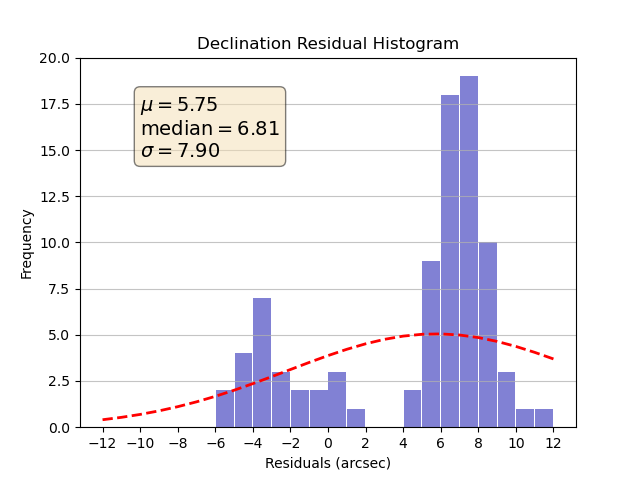
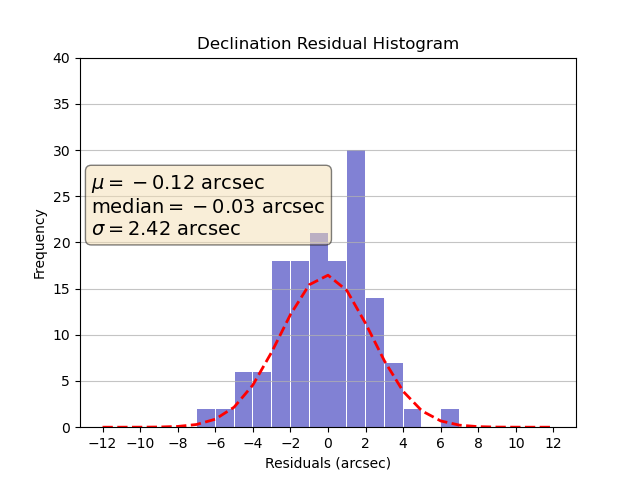
Histogram project

diff --git a/Old Files - Archived/AutoImageChecker.py b/Old Files - Archived/AutoImageChecker.py
@@ -1,0 +1,149 @@
+import os
+from astropy.io import fits, ascii
+from dateutil import parser
+from datetime import timedelta
+from matplotlib import pyplot as plt
+
+def read_fits_file(filepath):
+    with fits.open(filepath, memmap=False) as hdul:
+        hdr = hdul[0].header
+    return hdr
+
+def time_since_Epoch(timeList):
+    convertedList=[]
+    for i in timeList:  # Convert timestamps of residuals to Time since Epoch
+        dt = parser.parse(i)
+        timestamp = int(dt.timestamp())
+        timestamp = str(float(timestamp))
+        convertedList.append(timestamp)
+    return convertedList
+
+def create_Plot(x,y,xlabel,ylabel):
+    a = plt.scatter(x, y, label='Residuals')
+    plt.xlabel(xlabel)
+    plt.ylabel(ylabel)
+    plt.title(f'{xlabel} Vs {ylabel}')
+    plt.legend()
+    plt.savefig(f'{xlabel} Vs {ylabel}.png')
+    plt.show()
+    return None
+
+
+imageDirectory = "/Users/home/Downloads/processedLEOcal" #Image Directory
+g = open("/Users/home/Downloads/data-product-saral-fixed.txt", "r") # Saral Residuals
+f = open("/Users/home/Downloads/data-product-H2C-fixed.txt","r") #H2C Residuals
+p = open("/Users/home/Downloads/data-product-S6A-fixed.txt","r") #S6A Residuals
+
+objects,exptime,ela_min,sun_min,crval1,crval2,crota2,julian,date=[],[],[],[],[],[],[],[],[] #Header Data taken from images
+imageDatesCode,residualEpoch=[],[] #Timestamps converted to Unix seconds since Epoch
+
+#Matched data between Image headers and Residuals
+newobjects,newexptime,newela_min,newsun_min,newcrval1,newcrval2,newcrota2,newjulian,newdate,matchedRA,matchedDec=[],[],[],[],[],[],[],[],[],[],[]
+
+#Data taken from residual document
+result = []
+result2 = []
+result3 = []
+residualsRA = []
+residualsDec = []
+datesres=[]
+
+for dirpath, dirnames, filenames in os.walk(imageDirectory):
+    for filename in filenames:
+        if filename.endswith('.fits'):
+            filepath = os.path.join(dirpath, filename)
+            hdr = read_fits_file(filepath)
+            objects.append(hdr['OBJECT'])
+            exptime.append(hdr['AEXPTIME'])
+            ela_min.append(hdr['ELA_MIN'])
+            sun_min.append(hdr['SUN_MIN'])
+            crval1.append(hdr['CRVAL1'])
+            crval2.append(hdr['CRVAL2'])
+            crota2.append(hdr['CROTA2'])
+            julian.append(hdr['JD-OBS'])
+            date.append(hdr['DATE-OBS'])
+            #print(f'{filepath} Read')
+
+for x in f:
+    result.append(x.split())
+for y in g:
+    result2.append(y.split())
+for z in p:
+    result3.append(y.split())
+
+for x in range(0, len(result) - 1):
+    if x >= 8:
+        try:
+            if result[x][7] == "Right":
+                residualsRA.append(result[x][9])
+                st = result[x][0] + " " + result[x][1] + " " + result[x][2] + " " + result[x][3]
+                datesres.append(st)
+            else:
+                residualsDec.append(result[x][8])
+        except:
+            break
+
+for x in range(0, len(result2) - 1):
+    if x >= 8:
+        try:
+            if result2[x][7] == "Right":
+                residualsRA.append(result2[x][9])
+                st=result2[x][0]+" "+result2[x][1]+" "+result2[x][2]+" "+result2[x][3]
+                datesres.append(st)
+            else:
+                residualsDec.append(result2[x][8])
+        except:
+            break
+
+for x in range(0, len(result3) - 1):
+    if x >= 8:
+        try:
+            if result3[x][7] == "Right":
+                residualsRA.append(result3[x][9])
+                st=result3[x][0]+" "+result3[x][1]+" "+result3[x][2]+" "+result3[x][3]
+                datesres.append(st)
+            else:
+                residualsDec.append(result3[x][8])
+        except:
+            break
+
+
+
+imageDatesCode=time_since_Epoch(date)
+residualEpoch=time_since_Epoch(datesres)
+
+for i in range(len(residualEpoch)):
+    for j in range(len(imageDatesCode)):
+        if float(residualEpoch[i])<=float(imageDatesCode[j])+5 and float(residualEpoch[i])>=float(imageDatesCode[j])-5: # Checks if the dates are within a 10 second window of each other
+            newobjects.append(objects[j])
+            newexptime.append(exptime[j])
+            newela_min.append(ela_min[j])
+            newsun_min.append(sun_min[j])
+            newcrval1.append(crval1[j])
+            newcrval2.append(crval2[j])
+            newcrota2.append(crota2[j])
+            newjulian.append(julian[j])
+            matchedRA.append(residualsRA[i])
+            matchedDec.append(residualsDec[i])
+        else:
+            continue
+
+RA=[float(i) for i in matchedRA]
+Dec=[float(i) for i in matchedDec]
+
+#RA Plots
+create_Plot(RA,newexptime,"Residual (RA)","Exposure time (s)")
+create_Plot(RA,newcrval1,"Residual (RA)","Ref. Pixel RA")
+create_Plot(RA,newcrval2,"Residual (RA)","Ref. Pixel Declination")
+create_Plot(RA,newcrota2,"Residual (RA)","Rotation Angle Between Axes")
+create_Plot(RA,newela_min,"Residual (RA)","Minimum Earth Limb Angle (deg)")
+create_Plot(RA,newsun_min,"Residual (RA)","Minimum Sun Angle (deg)")
+#Dec Plots
+create_Plot(Dec,newexptime,"Residual (Dec)","Exposure time (s)")
+create_Plot(Dec,newcrval1,"Residual (Dec)","Ref. Pixel RA")
+create_Plot(Dec,newcrval2,"Residual (Dec)","Ref. Pixel Declination")
+create_Plot(Dec,newcrota2,"Residual (Dec)","Rotation Angle Between Axes")
+create_Plot(Dec,newela_min,"Residual (Dec)","Minimum Earth Limb Angle (deg)")
+create_Plot(Dec,newsun_min,"Residual (Dec)","Minimum Sun Angle (deg)")
+#RA vs Dec Bullet Plot
+create_Plot(RA,Dec,"Residual (RA)","Residual (Dec)")

diff --git a/V1 AstroSolver/Histo2.py b/V1 AstroSolver/Histo2.py
@@ -6,31 +6,66 @@
 import matplotlib.pyplot as plt
 import numpy as np
 import scipy.stats
+from scipy.stats import rayleigh
+import os
+from astropy.io import fits, ascii
+from datetime import datetime
+import time
 
-f=open("/Users/home/Downloads/data-product-saral-2.txt","r")
+
+
+f=open("/Users/home/Downloads/data-product-H2C-fixed.txt","r")
+g=open("/Users/home/Downloads/data-product-saral-fixed.txt","r")
 
 result=[]
+result2=[]
 residualsRA=[]
 residualsDec=[]
+
+
 for x in f:
     result.append(x.split())
+for y in g:
+    result2.append(y.split())
 
 for x in range(0,len(result)-1):
     if x >= 8:
      try:
         if result[x][7]=="Right":
             residualsRA.append(result[x][9])
+
+
         else:
             residualsDec.append(result[x][8])
      except:
-        break;
+        break
+    
+for x in range(0,len(result2)-1):
+    if x >= 8:
+     try:
+        if result2[x][7]=="Right":
+            residualsRA.append(result2[x][9])
 
+        else:
+            residualsDec.append(result2[x][8])
+     except:
+        break
+
+for i in RA:
+    TAE = np.sqrt((dRA * np.cos(DEC[i])) ^ 2 + dDEC ^ 2)
 
 RA=np.array(residualsRA).astype(np.float64)
 DEC=np.array(residualsDec).astype(np.float64)
 
+for i in RA:
+    Datapoints = np.sqrt((dRA * np.cos(DEC[i])) ^ 2 + dDEC ^ 2)
+
+
+rms = np.sqrt(np.mean(RA**2))
 mean, std= scipy.stats.norm.fit(RA)
 mean2, std2 = scipy.stats.norm.fit(DEC)
+mean3, std3 = scipy.stats.norm.fit(Datapoints)
+rmss2 = np.sqrt(np.mean(Datapoints**2))
 #bins=[-12,-10,-8,-6,-4,-2,0,2,4,6,8,10,12]
 bins=[-12,-11,-10,-9,-8,-7,-6,-5,-4,-3,-2,-1,0,1,2,3,4,5,6,7,8,9,10,11,12]
 n1, bins1, patches1 = plt.hist(x=RA, bins=bins, range= (-10,10), color='#0504aa',
@@ -40,13 +75,13 @@ mu = RA.mean()
 median = np.median(RA)
 sigma = RA.std()
 textstr = '\n'.join((
-    r'$\mu=%.2f$' % (mu, ),
-    r'$\mathrm{median}=%.2f$' % (median, ),
-    r'$\sigma=%.2f$' % (sigma, )))
+    r'$\mu=%.2f$ arcsec' % (mu, ),
+    r'$\mathrm{median}=%.2f$ arcsec' % (median, ),
+    r'$\sigma=%.2f$ arcsec' % (sigma, )))
 # these are matplotlib.patch.Patch properties
 props = dict(boxstyle='round', facecolor='wheat', alpha=0.5)
 # place a text box in upper left in axes coords
-plt.text(-10, 18.0, textstr, fontsize=14,
+plt.text(-12.6, 27.5, textstr, fontsize=14,
         verticalalignment='top', bbox=props)
 plt.grid(axis='y', alpha=0.75)
 plt.xlabel('Residuals (arcsec)')
@@ -66,15 +101,17 @@ l = plt.plot(bins, 100*scipy.stats.norm.pdf(bins, mean2, std2), 'r--', linewidth
 mu = DEC.mean()
 median = np.median(DEC)
 sigma = DEC.std()
-
+rms = np.sqrt(np.mean(DEC**2))
 textstr = '\n'.join((
-    r'$\mu=%.2f$' % (mu, ),
-    r'$\mathrm{median}=%.2f$' % (median, ),
-    r'$\sigma=%.2f$' % (sigma, )))
+    r'$\mu=%.2f$ arcsec' % (mu, ),
+    r'$\mathrm{median}=%.2f$ arcsec' % (median, ),
+    r'$\sigma=%.2f$ arcsec' % (sigma, )
+    #r'$\rms=%.2f$ arcsec' % (rms, )
+))
 # these are matplotlib.patch.Patch properties
 props = dict(boxstyle='round', facecolor='wheat', alpha=0.5)
 # place a text box in upper left in axes coords
-plt.text(-10, 18.0, textstr, fontsize=14,
+plt.text(-12.6, 27.5, textstr, fontsize=14,
         verticalalignment='top', bbox=props)
 plt.grid(axis='y', alpha=0.75)
 plt.xlabel('Residuals (arcsec)')
@@ -87,6 +124,31 @@ plt.ylim(ymax=np.ceil(maxfreq / 10) * 10 if maxfreq % 10 else maxfreq + 10)
 plt.savefig("Calibration Residual Frequency - Declination.png")
 plt.show()
 
+n3, bins3, patches3 = plt.hist(x=Datapoints, bins=bins, range= (-10,10), color='#0504aa',
+                            alpha=0.5, rwidth=0.95)
+l= plt.plot(bins3, 100*scipy.stats.norm.pdf(bins3, mean3, std3), 'r--', linewidth=2)
+mu = Datapoints.mean()
+median = np.median(Datapoints)
+sigma = Datapoints.std()
+textstr = '\n'.join((
+    r'$\mu=%.2f$ arcsec' % (mu, ),
+    r'$\mathrm{median}=%.2f$ arcsec' % (median, ),
+    r'$\sigma=%.2f$ arcsec' % (sigma, )))
+# these are matplotlib.patch.Patch properties
+props = dict(boxstyle='round', facecolor='wheat', alpha=0.5)
+# place a text box in upper left in axes coords
+plt.text(-12.6, 27.5, textstr, fontsize=14,
+        verticalalignment='top', bbox=props)
+plt.grid(axis='y', alpha=0.75)
+plt.xlabel('Residuals (arcsec)')
+plt.ylabel('Frequency')
+plt.xticks(np.arange(-12, 14, 2.0))
+plt.title('Combined Residuals (arcsec)')
+#plt.text(23, 45, r'$\mu=15, b=3$')
+maxfreq = n3.max()
+plt.ylim(ymax=np.ceil(maxfreq / 10) * 10 if maxfreq % 10 else maxfreq + 10)
+plt.savefig("Calibration Residual Frequency - Combined.png")
+plt.show()
 
 
 f.close()
